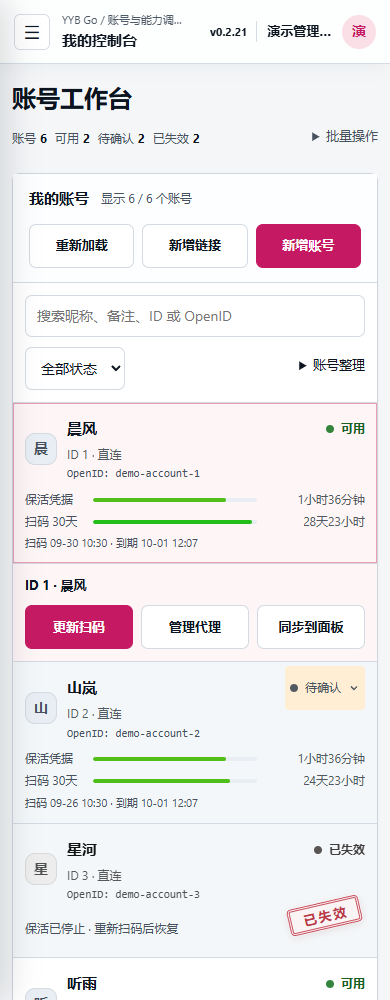
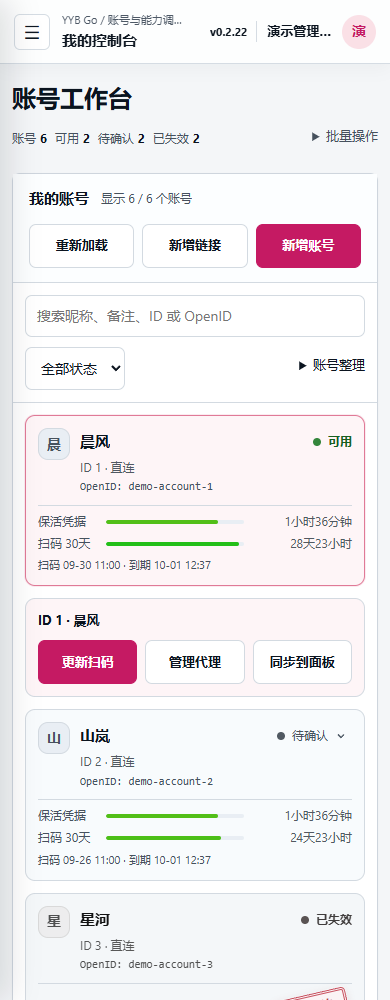
fix(console): restore compact account cards in v0.2.22

diff --git a/resource/templates/index.html b/resource/templates/index.html
@@ -319,11 +319,12 @@
     }
 
     .account-strip {
-      padding: 0;
+      padding: 12px;
       display: grid;
-      grid-template-columns: minmax(0, 1fr);
-      gap: 0;
+      grid-template-columns: repeat(auto-fill, minmax(min(100%, 260px), 1fr));
+      gap: 12px;
       align-content: start;
+      align-items: start;
       min-height: 112px;
     }
 
@@ -333,22 +334,18 @@
       overflow: hidden;
       width: 100%;
       min-width: 0;
-      min-height: 92px;
-      padding: 14px 16px;
-      border: 0;
-      border-bottom: 1px solid var(--line);
-      border-radius: 0;
+      padding: 12px;
+      border: 1px solid var(--line);
+      border-radius: 10px;
       background: var(--surface);
       color: var(--ink);
       text-align: left;
       display: grid;
-      grid-template-columns: 32px minmax(180px, 1fr) minmax(240px, .95fr) 116px;
-      column-gap: 14px;
-      row-gap: 10px;
-      align-items: center;
+      grid-template-columns: 32px minmax(0, 1fr);
+      gap: 10px;
+      align-items: start;
       transition: background 180ms cubic-bezier(0.25, 1, 0.5, 1), border-color 180ms cubic-bezier(0.25, 1, 0.5, 1), box-shadow 180ms cubic-bezier(0.25, 1, 0.5, 1);
     }
-    .account-card:last-child { border-bottom:0; border-radius:0 0 var(--radius) var(--radius); }
 
     .account-card.alive {
       border-color: var(--line);
@@ -388,8 +385,8 @@
     .account-card.expired::after {
       content: attr(data-state-label);
       position: absolute;
-      right: 166px;
-      top: 28px;
+      right: 16px;
+      top: 100px;
       z-index: 2;
       padding: 4px 10px 3px;
       border: 3px double oklch(0.49 0.19 24 / 0.72);
@@ -453,7 +450,8 @@
     }
 
     .account-card:hover {
-      background: var(--bg-soft);
+      border-color: oklch(0.79 0.025 250);
+      box-shadow: 0 3px 10px oklch(0.2 0.025 252 / .06);
     }
 
     .account-card.expired:hover {
@@ -463,7 +461,8 @@
 
     .account-card.selected {
       background: oklch(0.978 0.01 3);
-      box-shadow: inset 0 0 0 1px oklch(0.78 0.09 3);
+      border-color: oklch(0.7 0.13 3);
+      box-shadow: 0 0 0 1px oklch(0.7 0.13 3 / .15);
     }
 
     .account-card.expired.selected {
@@ -499,6 +498,7 @@
 
     .account-header {
       min-width: 0;
+      min-height: 24px;
       display: flex;
       align-items: center;
       justify-content: space-between;
@@ -528,7 +528,7 @@
     .account-status-toggle { position:relative; z-index:3; border:0; border-radius:4px; padding:3px 5px; background:transparent; cursor:pointer; font:inherit; font-size:12px; }
     .account-status-toggle:hover, .account-status-toggle[aria-expanded="true"] { background:var(--warning-soft); }
     .account-status-toggle svg { width:12px; height:12px; fill:none; stroke:currentColor; stroke-width:1.7; }
-    .account-row-actions { display:flex; justify-content:flex-end; align-items:center; gap:6px; }
+    .account-row-actions { grid-column:1 / -1; display:flex; justify-content:flex-end; align-items:center; gap:6px; }
     .account-row-actions .btn { position:relative; z-index:3; min-height:32px; padding:6px 10px; }
 
     .account-confirm-actions {
@@ -703,14 +703,14 @@
       font-size: 11px;
     }
 
-    .account-lifecycle { min-width:0; display:grid; gap:8px; }
+    .account-lifecycle { grid-column:1 / -1; min-width:0; display:grid; gap:8px; padding-top:8px; border-top:1px solid var(--line); }
     .lifecycle-row { display:grid; grid-template-columns:60px minmax(36px,1fr) 100px; align-items:center; gap:8px; color:var(--muted); font-size:12px; line-height:1.3; }
     .lifecycle-label { white-space:nowrap; }
     .lifecycle-track { height:4px; overflow:hidden; border-radius:999px; background:var(--surface-strong); }
     .lifecycle-track span { display:block; height:100%; border-radius:inherit; background:var(--lifecycle-color,#29934a); transition:width 180ms ease,background-color 180ms ease; }
     .lifecycle-value { min-width:72px; text-align:right; color:var(--faint); white-space:nowrap; font-variant-numeric:tabular-nums; }
     .lifecycle-note { color:var(--muted); font-size:11px; }
-    .lifecycle-inactive { color:var(--muted); font-size:12px; padding-right:94px; align-content:center; }
+    .lifecycle-inactive { color:var(--muted); font-size:12px; min-height:72px; padding-right:88px; align-content:center; }
 
     .result-panel .panel-body {
       gap: 10px;
@@ -810,13 +810,6 @@
     .link-dialog-existing-row .btn { padding:6px 8px; font-size:12px; }
     @media (max-width:520px) { .link-dialog-body { padding:18px; } .link-dialog-url { flex-direction:column; } .link-dialog-url .btn { width:100%; } .link-dialog-existing-row { align-items:flex-start; flex-direction:column; } }
 
-    @media (min-width:861px) and (max-width:1180px) {
-      .account-card { grid-template-columns:32px minmax(150px,1fr) minmax(215px,1fr); }
-      .account-row-actions { grid-column:2; grid-row:2; justify-content:flex-start; }
-      .account-card .account-lifecycle { grid-column:3; grid-row:1 / span 2; }
-      .account-card.expired::after { right:24px; top:16px; }
-    }
-
     @media (max-width: 1360px) {
       .work-grid {
         grid-template-columns: minmax(0, 1fr);
@@ -891,7 +884,7 @@
 
       .account-card.expired::after {
         right: 16px;
-        top: 78px;
+        top: 100px;
         font-size: 13px;
       }
     }
@@ -903,10 +896,10 @@
       .account-status-toggle { min-height:44px; margin-block:-8px; }
       .account-row-actions { display:none; }
       .account-lifecycle { grid-column:1 / -1; gap:6px; }
-      .account-lifecycle.lifecycle-inactive { min-height:32px; }
+      .account-lifecycle.lifecycle-inactive { min-height:66px; }
       .account-select { font-size:15px; }
       .account-confirm-actions .btn { min-height:44px; }
-      .mobile-account-actions:not([hidden]) { display:grid; grid-column:1 / -1; gap:10px; padding:12px; border:0; border-bottom:1px solid var(--line); border-radius:0; background:oklch(0.978 0.01 3); scroll-margin:80px 0 20px; }
+      .mobile-account-actions:not([hidden]) { display:grid; grid-column:1 / -1; gap:10px; padding:12px; border:1px solid var(--line); border-radius:10px; background:oklch(0.978 0.01 3); scroll-margin:80px 0 20px; }
       .mobile-account-actions strong { font-size:13px; overflow-wrap:anywhere; }
       .mobile-account-buttons { display:grid; grid-template-columns:repeat(3,minmax(0,1fr)); gap:8px; }
       .platform-main .mobile-account-buttons .btn { padding:8px 4px; }

diff --git a/internal/version/version.go b/internal/version/version.go
@@ -10,7 +10,7 @@ import (
 // These values are replaced by -ldflags in release builds. Keeping useful
 // defaults makes source builds and locally copied binaries identifiable too.
 var (
-	Version   = "0.2.21"
+	Version   = "0.2.22"
 	Commit    = "unknown"
 	BuildDate = "unknown"
 )

diff --git a/README.md b/README.md
@@ -14,7 +14,7 @@
 
 ![账号工作台：搜索、状态筛选与有效期（全部为虚构演示数据）](docs/images/console-demo-1440.png)
 
-工作台支持昵称、备注、ID、OpenID 搜索和状态筛选。v0.2.21 使用紧凑账号列表，电脑端每行可直接更新扫码、管理代理；手机选中账号后在其下方显示快捷操作。点击“待确认”可确认账号状态，新增账号和新增链接位于列表顶部。列表随账号数量自然展开，已失效账号停止展示有效期倒计时。页面预览使用虚构账号。
+工作台支持昵称、备注、ID、OpenID 搜索和状态筛选。v0.2.22 使用紧凑卡片网格，电脑端可在卡片内直接更新扫码、管理代理；手机以单列卡片展示，选中账号后在其下方显示快捷操作。点击“待确认”可确认账号状态，新增账号和新增链接位于顶部。账号区随数量自然展开，已失效账号停止展示有效期倒计时。页面预览使用虚构账号。
 
 <p align="center">
   <img src="docs/images/scan-sync-mobile.png" alt="扫码成功后一键添加到青龙" width="32%">

diff --git a/CHANGELOG.md b/CHANGELOG.md
@@ -2,6 +2,12 @@
 
 本项目按实际提交时间记录主要功能变化，便于部署后确认版本内容。
 
+## v0.2.22 - 2026-10-01
+
+- 工作台恢复卡片网格，收紧卡片尺寸、内边距和间距，取消列表式排布；待确认选项按需展开，避免拉高同排卡片。
+- 保留卡片内更新扫码、代理入口以及手机选中后的快捷操作，保活和扫码有效期继续上下排列。
+- 更新 README 虚构账号预览，验证桌面网格、手机单列和账号操作绑定。
+
 ## v0.2.21 - 2026-10-01
 
 - 工作台账号区改为紧凑列表，昵称、连接方式、保活凭据和 30 天扫码周期对齐展示；缩减边框、留白及重复提示，桌面端每行提供更新扫码与代理入口。

diff --git a/PRODUCT.md b/PRODUCT.md
@@ -25,6 +25,7 @@ Avoid marketing-style layouts, decorative dashboards, hidden identifiers, and su
 - Show the saved account identifiers immediately after scanning.
 - Keep account state and protocol actions easy to verify.
 - Prefer familiar controls and explicit error states.
+- Present accounts as compact cards with restrained spacing; preserve the card layout when refining density.
 - Treat account credentials and identifiers as sensitive operational data.
 
 ## Accessibility & Inclusion
